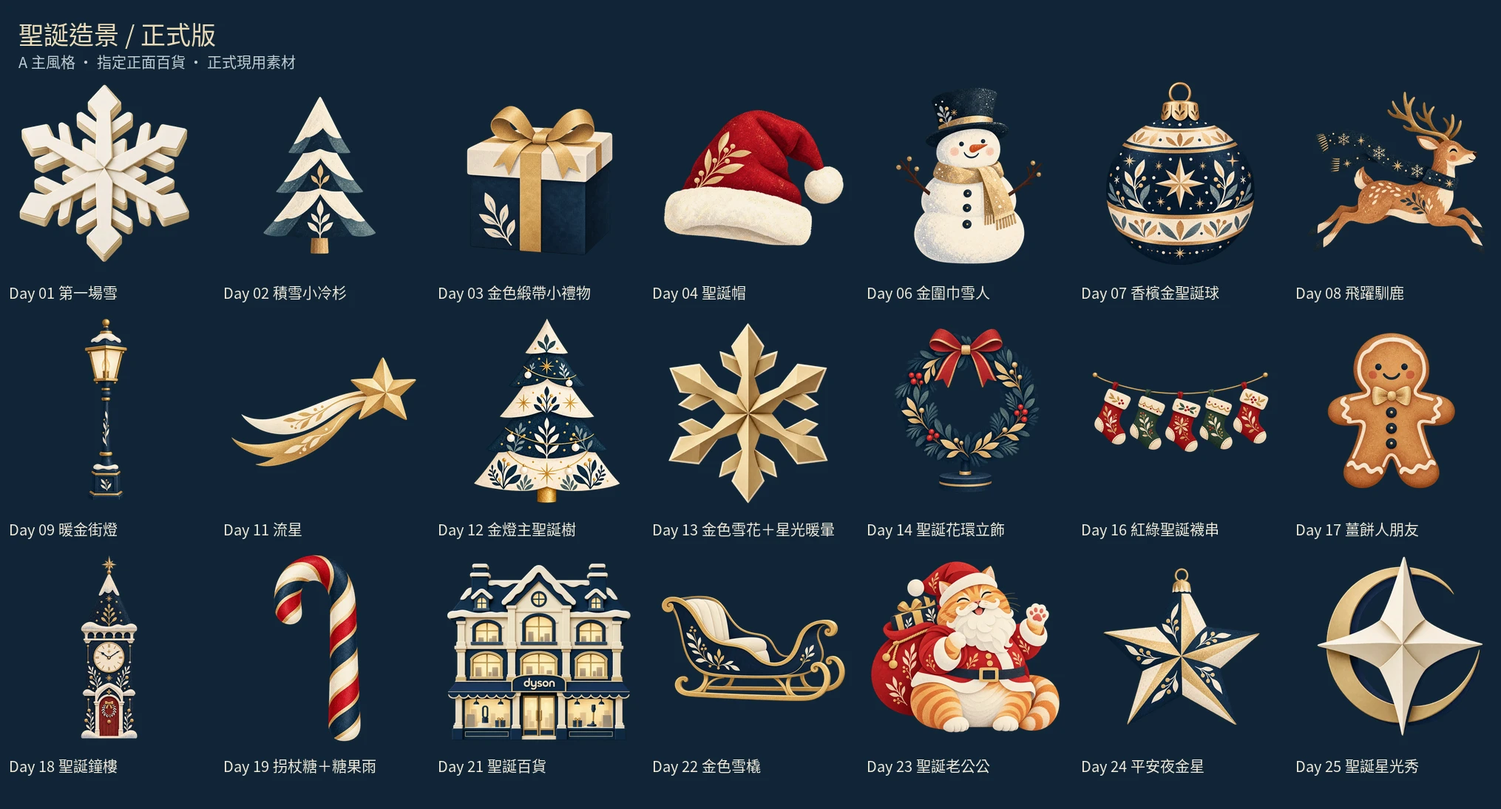
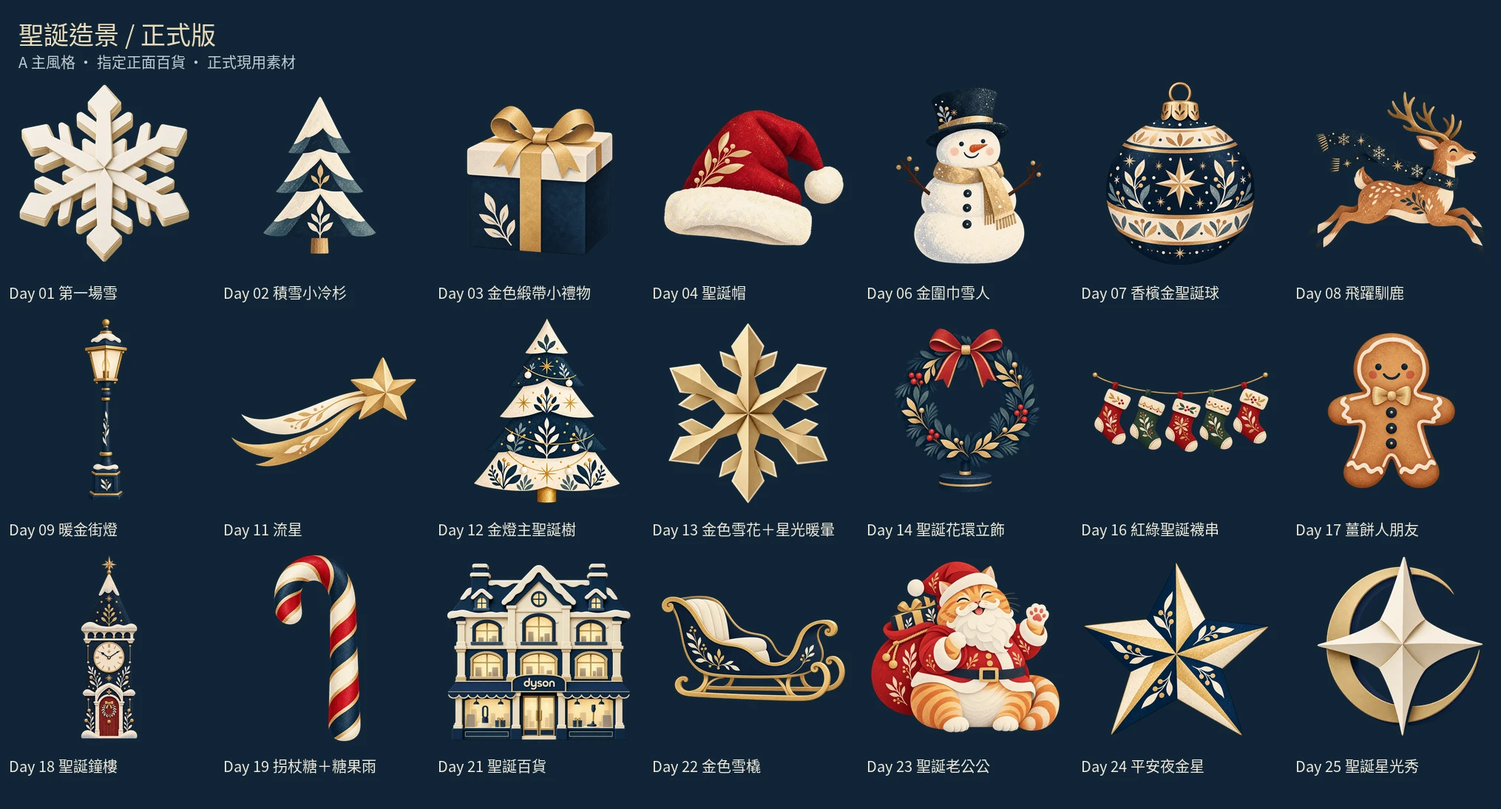
Add files via upload

Changed region(s): [[0.7138, 0.6837, 0.8379, 0.9013]]

diff --git a/2026-dyson-christmas/assets/js/app.js b/2026-dyson-christmas/assets/js/app.js
@@ -426,6 +426,12 @@ if(!safeRead(treeMusicUpdateKey,false)){
   if(settings[24]?.description=== '加入獨立懸掛金星，可吸附至已收藏的樹頂，另解鎖慢版《Jingle Bells》旋律。')delete settings[24].description;
   safeWrite(STORAGE_PREFIX+'config',settings);safeWrite(treeMusicUpdateKey,true);
 }
+const starCopyKey=STORAGE_PREFIX+'star-copy-'+BASE_CONFIG.starArtworkRevision;
+if(!safeRead(starCopyKey,false)){
+  const oldDescriptions=['加入獨立懸掛金星，可吸附至已收藏的樹頂，為雪境點上一顆平安夜金星。','加入獨立懸掛金星，可吸附至已收藏的樹頂，另解鎖慢版《Jingle Bells》旋律。'];
+  if(oldDescriptions.includes(settings[24]?.description))delete settings[24].description;
+  safeWrite(STORAGE_PREFIX+'config',settings);safeWrite(starCopyKey,true);
+}
 let previewDate=null,selectedDay=null,currentModalDay=null,editMode=false;
 let campaignStarted=false;
 function analyticsAllowed(){return !previewDate&&!$('studio-dialog')?.open;}
@@ -520,9 +526,10 @@ $('welcome-dialog').addEventListener('close',cleanupWelcome);
 
 function chime(){if(!sound)return;try{const AC=window.AudioContext||window.webkitAudioContext;if(!AC)return;const ac=chime.context??=new AC();if(ac.state==='suspended')ac.resume();[659.25,830.61,987.77].forEach((hz,k)=>{const o=ac.createOscillator(),g=ac.createGain();o.type='sine';o.frequency.value=hz;g.gain.setValueAtTime(0,ac.currentTime+k*.08);g.gain.linearRampToValueAtTime(.035,ac.currentTime+k*.08+.015);g.gain.exponentialRampToValueAtTime(.0001,ac.currentTime+k*.08+.8);o.connect(g);g.connect(ac.destination);o.start(ac.currentTime+k*.08);o.stop(ac.currentTime+k*.08+.85);});}catch{}}
 function describeState(d){return {future:'尚未開啟',current:'可領取',missed:'已錯過',owned:'已收藏'}[dayState(d)];}
+function starAboveTreeLayout(star,tree){return {...star,x:tree.x,y:tree.y-tree.h*tree.scale+star.h*star.scale*.48};}
 function getLayout(d){
   const def=item(d).layout,saved=state().layouts[d],layout=saved?{...def,...saved}:{...def,scale:1};
-  if(Number(d)===24&&!saved&&isPlaced(12)){const tree=getLayout(12);layout.x=tree.x;layout.y=tree.y-tree.h*tree.scale+8;}
+  if(Number(d)===24&&!saved&&isPlaced(12))Object.assign(layout,starAboveTreeLayout(layout,getLayout(12)));
   return SCENE_REPLACED_DAYS.includes(Number(d))?constrain(d,layout):layout;
 }
 function claimDay(d){
@@ -548,6 +555,7 @@ function togglePlacement(d,{fromCollection=false}={}){
   if(!previewDate&&cloud.email&&!cloud.ready&&!cloud.cachedView){status('正在背景找回進度，請稍後再調整。');return;}
   if(dayState(d)!=='owned')return;
   const placed=!isPlaced(d);state().placement[d]=placed;trackActivity('globe_item_change',{...giftAnalytics(d),action:placed?'add':'remove',placed_count:ownedDays().filter(isPlaced).length});
+  if(placed&&(Number(d)===24||(Number(d)===12&&isPlaced(24))))state().layouts[24]=starAboveTreeLayout(getLayout(24),getLayout(12));
   if(!placed&&selectedDay===d)selectItem(null);
   if(Number(d)===25&&!placed)stopShow(false);
   persist();renderUI({placementDay:d});if($('item-dialog').open){if(placed&&Number(currentModalDay)===Number(d))closeDialog('item-dialog');else renderItemDialog();}drawFrame(0,performance.now());
@@ -1161,7 +1169,7 @@ canvas.addEventListener('pointerdown',e=>{const pt=pointerPoint(e),d=hitTest(pt)
 canvas.addEventListener('pointermove',e=>{const pt=pointerPoint(e);if(drag&&drag.id===e.pointerId){if(Math.hypot(pt.x-drag.start.x,pt.y-drag.start.y)>10)drag.moved=true;if(!drag.viewOnly&&drag.moved){const l=getLayout(drag.day);l.x=pt.x-drag.offset.x;l.y=pt.y-drag.offset.y;state().layouts[drag.day]=constrain(drag.day,l);drawFrame(0,performance.now());}return;}
   const d=hitTest(pt);$('scene-tip').hidden=!d;if(d){$('scene-tip').textContent=item(d).name;$('scene-tip').style.left=`${Math.max(18,Math.min(82,((pt.x/SCENE_W-.5)*SCENE_VIEW.zoom+.5+SCENE_VIEW.shiftX)*100))}%`;$('scene-tip').style.top=`${((pt.y/SCENE_H-.5)*SCENE_VIEW.zoom+.5)*100}%`;}
 });
-canvas.addEventListener('pointerup',e=>{if(!drag||drag.id!==e.pointerId)return;const saved=drag;drag=null;if(canvas.hasPointerCapture?.(e.pointerId))canvas.releasePointerCapture(e.pointerId);if(saved.moved){if(saved.day===24&&!saved.viewOnly){const star=getLayout(24),near=[2,12].filter(d=>isPlaced(d)).map(d=>getLayout(d)).map(t=>({x:t.x,y:t.y-t.h*t.scale+2})).sort((a,b)=>Math.hypot(star.x-a.x,star.y-a.y)-Math.hypot(star.x-b.x,star.y-b.y))[0];if(near&&Math.hypot(star.x-near.x,star.y-near.y)<85){state().layouts[24]={...star,x:near.x,y:near.y};status('金星已放在聖誕樹頂。');}}persist();return;}if(saved.day){if(editMode)selectItem(saved.day);else openItem(saved.day);}});
+canvas.addEventListener('pointerup',e=>{if(!drag||drag.id!==e.pointerId)return;const saved=drag;drag=null;if(canvas.hasPointerCapture?.(e.pointerId))canvas.releasePointerCapture(e.pointerId);if(saved.moved){if(saved.day===24&&!saved.viewOnly){const star=getLayout(24),near=[2,12].filter(d=>isPlaced(d)).map(d=>getLayout(d)).map(t=>starAboveTreeLayout(star,t)).sort((a,b)=>Math.hypot(star.x-a.x,star.y-a.y)-Math.hypot(star.x-b.x,star.y-b.y))[0];if(near&&Math.hypot(star.x-near.x,star.y-near.y)<85){state().layouts[24]={...star,x:near.x,y:near.y};status('金星已放在聖誕樹頂。');}}persist();return;}if(saved.day){if(editMode)selectItem(saved.day);else openItem(saved.day);}});
 canvas.addEventListener('pointercancel',()=>{drag=null;persist();});canvas.addEventListener('pointerleave',()=>{$('scene-tip').hidden=true;});
 document.addEventListener('keydown',e=>{if(document.querySelector('dialog[open]'))return;const moves={ArrowLeft:[-4,0],ArrowRight:[4,0],ArrowUp:[0,-4],ArrowDown:[0,4]};if(editMode&&selectedDay&&moves[e.key]){e.preventDefault();moveSelected(...moves[e.key].map(v=>e.shiftKey?v*3:v));}});
 function assetLabel(d){if(customAssets.has(d))return '已使用自訂圖片';if(ASSETS.sprites?.[d])return item(d).product?'已內嵌產品透明圖':'獨立透明造景素材';return item(d).effect?'程式動態效果':'已內嵌節慶素材';}
@@ -1186,10 +1194,10 @@ async function openDatabase(){
       if(moved.length)await new Promise((resolve,reject)=>{const tx=assetDb.transaction('images','readwrite'),store=tx.objectStore('images');for(const d of Object.keys(SCHEDULE_MOVES))store.delete(Number(d));for(const r of moved)store.put(r,r.day);tx.oncomplete=resolve;tx.onerror=()=>reject(tx.error);tx.onabort=()=>reject(tx.error||new Error('素材日期更新未完成'));});
       records=records.filter(r=>!SCHEDULE_MOVES[r.day]).concat(moved);safeWrite(scheduleKey+'-assets',true);
     }
-    for(const r of records||[]){if(Number(r.day)===12&&r.treeArtworkRevision!==BASE_CONFIG.treeArtworkRevision)continue;if(FINAL_ARTWORK_DAYS.includes(Number(r.day))&&r.finalArtworkRevision!==BASE_CONFIG.finalArtworkRevision)continue;if(HOLIDAY_ACCENT_DAYS.includes(Number(r.day))&&r.holidayAccentRevision!==BASE_CONFIG.holidayAccentRevision)continue;if(FRONT_FACING_ARTWORK_DAYS.includes(Number(r.day))&&r.frontFacingArtworkRevision!==BASE_CONFIG.frontFacingArtworkRevision)continue;if(SEASONAL_ARTWORK_DAYS.includes(Number(r.day))&&r.seasonalArtworkRevision!==BASE_CONFIG.seasonalArtworkRevision)continue;if(RESTORED_ARTWORK_DAYS.includes(Number(r.day))&&r.restoredArtworkRevision!==BASE_CONFIG.restoredArtworkRevision)continue;if(CONTENT_REPLACED_DAYS.includes(Number(r.day))&&r.collectionContentRevision!==BASE_CONFIG.collectionContentRevision)continue;if(DEER_PAPER_DAYS.includes(Number(r.day))&&r.deerPaperRevision!==BASE_CONFIG.deerPaperRevision)continue;if(PAPER_SCENERY_DAYS.includes(Number(r.day))&&r.paperSceneryRevision!==BASE_CONFIG.paperSceneryRevision)continue;if(Number(r.day)===21&&r.departmentStoreRevision!==BASE_CONFIG.departmentStoreRevision)continue;if([107,109].includes(Number(r.day))&&r.softAnimalsRevision!==BASE_CONFIG.softAnimalsRevision)continue;if(Number(r.day)===106&&r.penguinRevision!==BASE_CONFIG.penguinRevision)continue;if(Number(r.day)===23&&r.santaTailRevision!==BASE_CONFIG.santaTailRevision)continue;if(PLAIN_COAT_DAYS.includes(Number(r.day))&&r.plainCoatRevision!==BASE_CONFIG.plainCoatRevision)continue;if(CHARACTER_REVISED_DAYS.includes(Number(r.day))&&r.characterRevision!==BASE_CONFIG.characterRevision)continue;if(CAT_COLLECTION_DAYS.includes(Number(r.day))&&r.catRevision!==BASE_CONFIG.catRevision)continue;if(PAPER_COLLECTION_DAYS.includes(Number(r.day))&&r.paperCollectionRevision!==BASE_CONFIG.paperCollectionRevision)continue;if(Number(r.day)===16&&r.stockingRevision!==BASE_CONFIG.stockingRevision)continue;if(SCENE_REPLACED_DAYS.includes(Number(r.day))&&r.sceneRevision!==BASE_CONFIG.sceneRevision)continue;if(!itemByDay(r.day)?.product&&r.productModel)continue;if(itemByDay(r.day)?.product&&ASSETS.productStyle&&(r.productStyle!==ASSETS.productStyle||r.productModel!==itemByDay(r.day).product.model))continue;if(ASSETS.visualStyle==='paper-relief-v1'&&!item(r.day)?.product&&r.visualStyle!=='paper-relief-v1')continue;if(r.removed)customAssets.delete(r.day);else try{customAssets.set(r.day,{src:r.src,image:await imageLoad(r.src)});}catch{}}
+    for(const r of records||[]){if(Number(r.day)===24&&r.starArtworkRevision!==BASE_CONFIG.starArtworkRevision)continue;if(Number(r.day)===12&&r.treeArtworkRevision!==BASE_CONFIG.treeArtworkRevision)continue;if(FINAL_ARTWORK_DAYS.includes(Number(r.day))&&r.finalArtworkRevision!==BASE_CONFIG.finalArtworkRevision)continue;if(HOLIDAY_ACCENT_DAYS.includes(Number(r.day))&&r.holidayAccentRevision!==BASE_CONFIG.holidayAccentRevision)continue;if(FRONT_FACING_ARTWORK_DAYS.includes(Number(r.day))&&r.frontFacingArtworkRevision!==BASE_CONFIG.frontFacingArtworkRevision)continue;if(SEASONAL_ARTWORK_DAYS.includes(Number(r.day))&&r.seasonalArtworkRevision!==BASE_CONFIG.seasonalArtworkRevision)continue;if(RESTORED_ARTWORK_DAYS.includes(Number(r.day))&&r.restoredArtworkRevision!==BASE_CONFIG.restoredArtworkRevision)continue;if(CONTENT_REPLACED_DAYS.includes(Number(r.day))&&r.collectionContentRevision!==BASE_CONFIG.collectionContentRevision)continue;if(DEER_PAPER_DAYS.includes(Number(r.day))&&r.deerPaperRevision!==BASE_CONFIG.deerPaperRevision)continue;if(PAPER_SCENERY_DAYS.includes(Number(r.day))&&r.paperSceneryRevision!==BASE_CONFIG.paperSceneryRevision)continue;if(Number(r.day)===21&&r.departmentStoreRevision!==BASE_CONFIG.departmentStoreRevision)continue;if([107,109].includes(Number(r.day))&&r.softAnimalsRevision!==BASE_CONFIG.softAnimalsRevision)continue;if(Number(r.day)===106&&r.penguinRevision!==BASE_CONFIG.penguinRevision)continue;if(Number(r.day)===23&&r.santaTailRevision!==BASE_CONFIG.santaTailRevision)continue;if(PLAIN_COAT_DAYS.includes(Number(r.day))&&r.plainCoatRevision!==BASE_CONFIG.plainCoatRevision)continue;if(CHARACTER_REVISED_DAYS.includes(Number(r.day))&&r.characterRevision!==BASE_CONFIG.characterRevision)continue;if(CAT_COLLECTION_DAYS.includes(Number(r.day))&&r.catRevision!==BASE_CONFIG.catRevision)continue;if(PAPER_COLLECTION_DAYS.includes(Number(r.day))&&r.paperCollectionRevision!==BASE_CONFIG.paperCollectionRevision)continue;if(Number(r.day)===16&&r.stockingRevision!==BASE_CONFIG.stockingRevision)continue;if(SCENE_REPLACED_DAYS.includes(Number(r.day))&&r.sceneRevision!==BASE_CONFIG.sceneRevision)continue;if(!itemByDay(r.day)?.product&&r.productModel)continue;if(itemByDay(r.day)?.product&&ASSETS.productStyle&&(r.productStyle!==ASSETS.productStyle||r.productModel!==itemByDay(r.day).product.model))continue;if(ASSETS.visualStyle==='paper-relief-v1'&&!item(r.day)?.product&&r.visualStyle!=='paper-relief-v1')continue;if(r.removed)customAssets.delete(r.day);else try{customAssets.set(r.day,{src:r.src,image:await imageLoad(r.src)});}catch{}}
   }catch{assetDb=null;assetStorage='memory';}
 }
-function dbWrite(day,src){return new Promise((resolve,reject)=>{if(!assetDb){resolve();return;}const tx=assetDb.transaction('images','readwrite');tx.objectStore('images').put(src?{day,src,treeArtworkRevision:BASE_CONFIG.treeArtworkRevision,finalArtworkRevision:BASE_CONFIG.finalArtworkRevision,holidayAccentRevision:BASE_CONFIG.holidayAccentRevision,frontFacingArtworkRevision:BASE_CONFIG.frontFacingArtworkRevision,seasonalArtworkRevision:BASE_CONFIG.seasonalArtworkRevision,restoredArtworkRevision:BASE_CONFIG.restoredArtworkRevision,collectionContentRevision:BASE_CONFIG.collectionContentRevision,deerPaperRevision:BASE_CONFIG.deerPaperRevision,paperSceneryRevision:BASE_CONFIG.paperSceneryRevision,departmentStoreRevision:BASE_CONFIG.departmentStoreRevision,softAnimalsRevision:BASE_CONFIG.softAnimalsRevision,penguinRevision:BASE_CONFIG.penguinRevision,santaTailRevision:BASE_CONFIG.santaTailRevision,plainCoatRevision:BASE_CONFIG.plainCoatRevision,characterRevision:BASE_CONFIG.characterRevision,catRevision:BASE_CONFIG.catRevision,paperCollectionRevision:BASE_CONFIG.paperCollectionRevision,sceneRevision:BASE_CONFIG.sceneRevision,stockingRevision:BASE_CONFIG.stockingRevision,visualStyle:ASSETS.visualStyle,productStyle:item(day).product?ASSETS.productStyle:null,productModel:configuredItem(day).product?.model||null}:{day,removed:true,visualStyle:ASSETS.visualStyle},day);tx.oncomplete=()=>resolve();tx.onerror=()=>reject(tx.error);});}
+function dbWrite(day,src){return new Promise((resolve,reject)=>{if(!assetDb){resolve();return;}const tx=assetDb.transaction('images','readwrite');tx.objectStore('images').put(src?{day,src,starArtworkRevision:BASE_CONFIG.starArtworkRevision,treeArtworkRevision:BASE_CONFIG.treeArtworkRevision,finalArtworkRevision:BASE_CONFIG.finalArtworkRevision,holidayAccentRevision:BASE_CONFIG.holidayAccentRevision,frontFacingArtworkRevision:BASE_CONFIG.frontFacingArtworkRevision,seasonalArtworkRevision:BASE_CONFIG.seasonalArtworkRevision,restoredArtworkRevision:BASE_CONFIG.restoredArtworkRevision,collectionContentRevision:BASE_CONFIG.collectionContentRevision,deerPaperRevision:BASE_CONFIG.deerPaperRevision,paperSceneryRevision:BASE_CONFIG.paperSceneryRevision,departmentStoreRevision:BASE_CONFIG.departmentStoreRevision,softAnimalsRevision:BASE_CONFIG.softAnimalsRevision,penguinRevision:BASE_CONFIG.penguinRevision,santaTailRevision:BASE_CONFIG.santaTailRevision,plainCoatRevision:BASE_CONFIG.plainCoatRevision,characterRevision:BASE_CONFIG.characterRevision,catRevision:BASE_CONFIG.catRevision,paperCollectionRevision:BASE_CONFIG.paperCollectionRevision,sceneRevision:BASE_CONFIG.sceneRevision,stockingRevision:BASE_CONFIG.stockingRevision,visualStyle:ASSETS.visualStyle,productStyle:item(day).product?ASSETS.productStyle:null,productModel:configuredItem(day).product?.model||null}:{day,removed:true,visualStyle:ASSETS.visualStyle},day);tx.oncomplete=()=>resolve();tx.onerror=()=>reject(tx.error);});}
 async function removeCustomAsset(d){customAssets.delete(d);sprites.delete(d);await dbWrite(d,null).catch(()=>{});renderUI();renderStudio();}
 $('asset-input').addEventListener('change',async e=>{const file=e.target.files?.[0],d=assetUploadDay;if(!file||!d)return;if(file.size>12*1024*1024){$('config-status').textContent='單張圖片請控制在 12 MB 內。';return;}
   try{const src=await new Promise((resolve,reject)=>{const r=new FileReader();r.onload=()=>resolve(r.result);r.onerror=()=>reject(r.error);r.readAsDataURL(file);});const image=await imageLoad(src);customAssets.set(d,{src,image});sprites.delete(d);try{await dbWrite(d,src);}catch{assetStorage='memory';}$('config-status').textContent=`12/${d} 圖片已替換。可下載新版 config.js 保留素材。`;renderUI();renderStudio();}catch(err){$('config-status').textContent=err.message;}

diff --git a/2026-dyson-christmas/index.html b/2026-dyson-christmas/index.html
@@ -1,12 +1,11 @@
 <!doctype html>
 <html lang="zh-Hant">
-<head><meta charset="utf-8"><meta name="viewport" content="width=device-width,initial-scale=1"><meta name="theme-color" content="#10141c"><title>Dyson 璀璨雪境｜25 日聖誕收藏</title><link rel="stylesheet" href="./assets/css/style.css?v=20261029-passport-product-rewards"></head>
+<head><meta charset="utf-8"><meta name="viewport" content="width=device-width,initial-scale=1"><meta name="theme-color" content="#10141c"><title>Dyson 璀璨雪境｜25 日聖誕收藏</title><link rel="stylesheet" href="./assets/css/style.css?v=20261029-intro-tree-top-star"></head>
 <body>
 <dialog id="welcome-dialog" class="welcome-dialog" aria-labelledby="welcome-title" aria-describedby="welcome-description">
  <div class="welcome-topline"><span class="welcome-label">玩法與雪境靈感</span><button id="welcome-skip" type="button" aria-label="關閉活動介紹">關閉 ×</button></div>
- <h2 id="welcome-title">活動介紹</h2><p id="welcome-description">收藏驚喜、傳送祝福，解鎖<strong>限量優惠券</strong>。</p>
- <div class="welcome-content"><section id="welcome-progress" class="welcome-progress"><h3 id="welcome-progress-title">留住你的聖誕進度</h3><p>留下 Email，下次回來接續收藏。</p><div id="progress-current" hidden><p>目前使用 <strong id="progress-email-label"></strong></p><button id="progress-switch" type="button">切換 Email</button></div><form id="progress-form" novalidate><label for="progress-email">你的 Email<input id="progress-email" type="email" maxlength="254" autocomplete="email" placeholder="name@example.com"></label><label class="progress-consent"><input id="progress-marketing" type="checkbox"><span>我願意接收 Dyson 優惠與新品資訊（選填）</span></label><p class="card-hint">未填寫也能先體驗。</p><button id="progress-submit" hidden class="gold-button" type="submit">保存</button></form><p id="progress-message" role="status" aria-live="polite"></p><button id="progress-retry" type="button" hidden>重試同步</button></section><div class="welcome-media"><video id="welcome-video" muted playsinline preload="none" aria-label="5 秒玩法介紹與雪境示意"></video><div class="welcome-media-toolbar"><p id="welcome-status" class="welcome-status" role="status" aria-live="polite"></p><button id="welcome-play" type="button" hidden>播放介紹</button></div></div></div>
- <nav class="welcome-guide" aria-label="三步玩法"><ol class="welcome-steps"><li>收藏驚喜</li><li>布置雪境</li><li>傳祝福領優惠</li></ol></nav>
+ <h2 id="welcome-title">活動介紹</h2><p id="welcome-description">布置屬於你的聖誕雪境、收藏驚喜、傳送祝福，解鎖<strong>限量優惠券</strong>。</p>
+ <div class="welcome-content"><section id="welcome-progress" class="welcome-progress"><h3 id="welcome-progress-title">留住你的聖誕進度</h3><p>留下 Email，下次回來接續收藏。</p><div id="progress-current" hidden><p>目前使用 <strong id="progress-email-label"></strong></p><button id="progress-switch" type="button">切換 Email</button></div><form id="progress-form" novalidate><label for="progress-email">你的 Email<input id="progress-email" type="email" maxlength="254" autocomplete="email" placeholder="name@example.com"></label><label class="progress-consent"><input id="progress-marketing" type="checkbox"><span>我願意接收 Dyson 優惠與新品資訊（選填）</span></label><p class="card-hint">未填寫也能先體驗。</p><button id="progress-submit" hidden class="gold-button" type="submit">保存</button></form><p id="progress-message" role="status" aria-live="polite"></p><button id="progress-retry" type="button" hidden>重試同步</button></section><div class="welcome-media"><video id="welcome-video" muted playsinline preload="none" aria-label="5 秒玩法介紹與雪境示意"></video><div class="welcome-media-toolbar"><p id="welcome-status" class="welcome-status sr-only" role="status" aria-live="polite"></p><button id="welcome-play" type="button" hidden>播放介紹</button></div></div></div>
  <details class="welcome-rules"><summary id="welcome-rules-title">活動規則</summary><div class="welcome-rules-content"><p>活動期間為 2026/12/01–12/25，以台灣時間（UTC+8）每日 00:00 換日。可領取當天及之前的禮物，未來日期仍鎖定；活動結束後，已收藏項目仍可回看及重新擺放。</p><p>四款產品各附一份商品專屬優惠券，收藏即可保留對應優惠。製作卡片並下載或分享一次、填寫 Email 保存進度後，即可領取已達成條件的優惠券；整個活動只需完成一次卡片任務。活動期間累積參與 10 個不同台灣日期，即可至 Dyson 櫃位兌換護照；不需連續，同日補領多份禮物只算參與一天。</p><p>Email 用於保存與找回活動進度，請確認拼寫正確；本活動不驗證信箱持有人。未填 Email 可先體驗，填寫後按「開始收藏」即可保存。已載入進度後，變更行銷意願會立即保存；勾選行銷意願者，可於活動結束後接收 Dyson 優惠與新品資訊，不影響活動參加。</p><p>優惠內容與使用條件以券面說明為準。</p></div></details>
  <details id="welcome-notices" class="welcome-rules welcome-notices"><summary id="welcome-notices-title">注意事項</summary><div class="welcome-rules-content"><ol id="activity-notices-list"><li><p>本活動由恆隆行貿易股份有限公司（以下簡稱「主辦單位」）舉辦。參加者一經參與本活動，即視為已詳閱、瞭解並同意遵守本活動辦法、注意事項及相關規範。</p></li><li><p>如因參加者使用之裝置、LINE App 版本、網路連線或其他非可歸責於主辦單位之因素，導致活動頁面、動畫效果、會員綁定或優惠資訊顯示異常，主辦單位恕不另行補發或補償。</p></li><li><p>如因天災、系統異常、政府法令變更或其他不可抗力因素，致本活動無法正常進行，主辦單位得於法令允許範圍內調整、暫停或終止活動，並依實際情況公告相關處理方式。</p></li><li><p>主辦單位保留於法令允許範圍內調整活動內容及相關辦法之權利，相關異動將於活動頁面公告。</p></li><li><p>本活動如有未盡事宜，悉依相關法令、主辦單位活動辦法及最新公告辦理。</p></li></ol></div></details>
  <div class="welcome-footer"><button id="welcome-start" class="gold-button" type="button">開始收藏</button></div>
@@ -73,9 +72,9 @@
 
 
 
-<script src="./assets/js/config.js?v=20261029-passport-product-rewards"></script>
+<script src="./assets/js/config.js?v=20261029-intro-tree-top-star"></script>
 <script src="./assets/js/analytics.js?v=20261028-white-blue-gold"></script>
 <script src="./assets/js/media-codecs.js"></script>
 <script src="./assets/js/media-mp4.js?v=20261028-white-blue-gold"></script>
-<script src="./assets/js/app.js?v=20261029-passport-product-rewards"></script>
+<script src="./assets/js/app.js?v=20261029-intro-tree-top-star"></script>
 </body></html>

diff --git a/2026-dyson-christmas/assets/js/config.js b/2026-dyson-christmas/assets/js/config.js
@@ -8,7 +8,7 @@ window.DYSON_GAME_CONFIG = {
   "holidayAccentRevision": "20261028-white-blue-gold",
   "frontFacingArtworkRevision": "20261028-front-retail",
   "paperSceneryRevision": "20261028-minimal-relief",
-  "version": 64,
+  "version": 65,
   "cardShareUrl": "https://hlh.tw/2026-dyson-christmas",
   "cardShareText": "我把一點雪、一點星光，還有想你的心意，都裝進這顆水晶球了。",
   "visualStyle": "paper-relief-v1",
@@ -388,12 +388,12 @@ window.DYSON_GAME_CONFIG = {
       "day": 24,
       "type": "聖誕造景",
       "name": "平安夜金星",
-      "description": "加入獨立懸掛金星，可吸附至已收藏的樹頂，為雪境點上一顆平安夜金星。",
+      "description": "加入沒有吊飾環的平安夜金星，放入時自動對齊金燈主聖誕樹正上方，為雪境點上一顆祝福金星。",
       "benefit": null,
-      "assetNeed": "A 款北歐紋理插畫透明 WebP，沿用固定檔名",
+      "assetNeed": "A款五角金星透明WebP，無吊飾環與金屬吊帽",
       "layout": {
         "x": 625,
-        "y": 408,
+        "y": 492,
         "h": 77
       },
       "hint": "一個冬日小驚喜，將為你的聖誕世界添上新的細節。"
@@ -655,7 +655,8 @@ window.DYSON_GAME_CONFIG = {
     "21": "simple-front-snowy-department-store"
   },
   "treeArtworkRevision": "20261029-tree-gingerbread-music",
-  "rewardPresentationRevision": "20261029-passport-product-rewards"
+  "rewardPresentationRevision": "20261029-passport-product-rewards",
+  "starArtworkRevision": "20261029-intro-tree-top-star"
 };
 
 window.DYSON_ASSETS = {
@@ -692,7 +693,7 @@ window.DYSON_ASSETS = {
     "21": "./assets/images/scene/day-21-department-store.webp?rev=20261029-simple-store-notices",
     "22": "./assets/images/scene/day-22-golden-sleigh.webp?rev=20261029-style-a-final",
     "23": "./assets/images/scene/day-23-cat-santa.webp?rev=20261029-style-a-final",
-    "24": "./assets/images/scene/day-24-christmas-star.webp?rev=20261029-style-a-final"
+    "24": "./assets/images/scene/day-24-christmas-star.webp?rev=20261029-intro-tree-top-star"
   },
   "music": [
     {

diff --git a/2026-dyson-christmas/assets/css/style.css b/2026-dyson-christmas/assets/css/style.css
@@ -517,3 +517,6 @@ button,input,textarea,select{line-height:1.5}
 
 /* Counter gift uses the supplied artwork without recoloring. */
 .passport-visual{display:flex;align-items:center;justify-content:center;margin:14px 0;padding:14px;border-radius:10px;background:#f3ecdc;overflow:hidden}.passport-visual img{display:block;width:100%;max-width:240px;height:auto;object-fit:contain}.compact-reward .passport-visual{max-width:220px;margin:12px auto}.passport-eligible{color:var(--gold);font-weight:700;line-height:1.7}.passport-reward h3,.passport-reward p{overflow-wrap:anywhere}
+
+/* Keep replay control; media status is available only to screen readers. */
+.welcome-media-toolbar{justify-content:flex-end}.welcome-media-toolbar .welcome-status{position:absolute;width:1px;height:1px;min-height:0;padding:0;margin:-1px;overflow:hidden;clip:rect(0,0,0,0);clip-path:inset(50%);white-space:nowrap;border:0;flex:none}

diff --git a/2026-dyson-christmas/UPDATE.md b/2026-dyson-christmas/UPDATE.md
@@ -1,25 +1,14 @@
-# v64 護照禮與商品專屬優惠券
+# v65 彈窗與樹頂金星
 
-本次以v63為基準，延續主樹無頂星、加長樹幹、薑餅人放大20%、Day24無聖誕旋律，以及指定百貨與五點注意事項。
+基準v64。完整包含先前Day24無聖誕旋律、薑餅人放大20%、主樹去頂星及加長樹幹、指定百貨、五點注意事項、護照禮與商品專屬券。
 
-## 滿10天護照禮
+- 活動介紹文案改為「布置屬於你的聖誕雪境、收藏驚喜、傳送祝福，解鎖限量優惠券。」，限量優惠券維持強調。
+- 移除影片重播按鈕左側的可見文字與下方三步玩法列，保留影片及再看一次按鈕；播放狀態以無障礙文字提供。
+- Day24金星用內建image_gen編輯移除吊飾環及金屬吊帽，保留A款五角星、配色與植物紋樣，沿用原固定WebP檔名。
+- 每次將金星放入水晶球，依主樹目前位置及縮放對齊樹頂，保留金星自身縮放。舊拖曳位置在重新放入時會重新對齊；放好後仍可自由拖曳。
+- 若先放金星、後放主樹，主樹放入時也會將已展示金星對齊。未展示主樹時使用主樹預定位置，不自動收藏或放入主樹。
+- 更新Day24圖片快取識別；僅略過過期金星自訂圖片，不清除進度或其他物件圖。更新瀏覽預覽、詳情與球內共用來源。
 
-- 原visits-10通用折價券改為Dyson護照兌換禮，沿用原本不同台灣日期累積簽到、同日只算一次、不需連續的規則。
-- 正式累積10天並保存Email進度，即顯示到Dyson櫃位出示畫面兌換護照的資格。此禮不再要求卡片任務；四張產品券的卡片任務保留。
-- 使用提供的透明PNG，僅無損轉為固定檔名assets/images/rewards/dyson-passport.webp，未重繪或改色。
-- 移除原全品項券標示及All999999序號；首頁禮遇、我的禮遇、聖誕足跡與活動介紹文字同步更新。
-- 本版顯示到櫃兌換資格，未新增店員核銷或已兌換紀錄；兌換數量、期限、櫃點名單等未提供條件不自行增訂。
+差異包適用v64：合併覆蓋2026-dyson-christmas資料夾同名檔案。較舊版本使用完整包。尚未代為上傳正式網站。
 
-## 商品券
-
-- HD19 隨行吹風機折抵 $1,000。
-- SV50 鉛筆吸塵器折抵 $1,000。
-- HJ10 噴射氣流空氣清淨機折抵 $1,000。
-- BP10 空氣清淨機專屬折價券，原金額與序號未公布，未自行設定。
-- 商品券序號與卡片任務沿用。這是活動網站顯示調整；購物平台必須將優惠碼適用範圍同步限定指定機型，網站無法變更購物平台券規則。
-- 已知舊品類預設文字及舊通用券設定會更新，其他自訂商品券序號保留。
-
-## 套用
-
-差異包適用v63，將2026-dyson-christmas資料夾內容合併覆蓋同名檔案；較舊版本使用完整包。圖片檔名無版本尾碼，JS、CSS與圖片查詢參數已更新。
-本次未更動Apps Script、管理權限判斷或Google Sheet；管理者問題尚需目前實際部署的Apps Script原始碼確認，詳見ADMIN-CHECK.md。未代為上傳正式網站。
+管理者問題另經線上後端實測：指定新增管理者回傳isAdmin:false、canPreview:false、hasExclusiveCollection:false，服務版本符合目前前端要求。前端正確隱藏管理入口；尚未確認後端讀取的實際Sheet或列。需目前部署Code.gs定位，未修改後端或放寬權限，詳見ADMIN-CHECK.md。

diff --git a/2026-dyson-christmas/ADMIN-CHECK.md b/2026-dyson-christmas/ADMIN-CHECK.md
@@ -1,15 +1,13 @@
-# 新增管理者後未顯示日期模擬
+# 新管理者日期模擬排查：已取得後端實測
 
-從提供截圖可見「是否管理者」已勾選；前端程式不以「同意行銷」作為管理條件，無須為模擬日期而勾選行銷。
+2026/10/29以使用者指定的新管理者Email，對活動設定中的正式進度服務執行connect測試。只測試該帳號，未變更行銷同意、未領取禮物、未寫入模擬日期或修改Sheet權限；連線會更新服務既有的最近連線紀錄。
 
-目前前端僅在進度服務連線成功、後端回傳isAdmin為布林true，以及canPreview為布林true時，顯示日期模擬與管理入口。僅填Email或勾選前端欄位無法繞過後端權限。
+後端實際回傳：ok=true、serviceVersion=7、rulesVersion=3、permissionsVersion=2、year=2026；isAdmin=false、canPreview=false、hasExclusiveCollection=false。
 
-先重新整理活動頁，使用新增管理者的完整Email重新保存／載入進度。正在開啟的頁面不會因Sheet勾選自動推送權限；目前返回頁面的自動重連也受活動日期限制，因此十月新增勾選後，應主動重新載入。
+可確認：不是前端在收到管理者true之後仍隱藏入口，也不是目前前端不接受服務版本。服務實際將此Email視為沒有管理者及專屬收藏權限。
 
-若仍未出現日期模擬，需檢查目前部署的Apps Script：
-- 連到的試算表是否正是所修改的Participants_2026。
-- 是否按正確Email列讀取「是否管理者」核取方塊。
-- 回傳的isAdmin、canPreview是否均為布林true，而非字串TRUE。
-- 若程式碼更新過，現用/exec部署是否仍執行舊版本。
+尚無法確認：部署服務連到哪份試算表、Email是否匹配正確列、欄位如何解析、現用部署是否仍含較早的讀取邏輯。網站的/exec網址不提供Apps Script原始碼；現有獨立DysonProgress.gs是舊版，不能用來覆蓋現用服務。
 
-本次能取得的獨立DysonProgress.gs為較舊版本，與現用前端要求的服務協定不同，不能用它認定線上問題或覆蓋現用後端。請提供目前Apps Script原始碼或檔案，才能定位並針對實際版本修正；不要用舊檔取代，也不需清空Sheet。
+下一步：從目前修改的Sheet開啟擴充功能→Apps Script，提供目前Code.gs完整內容。需比對其試算表選擇、Email查找與是否管理者／是否有專屬收藏欄位解析，再修正及更新原部署。未確認前不改Sheet表頭、不清空資料。
+
+正常設計應每次連線讀取Sheet名單：後續新增Email或勾選管理者，只需重新載入進度，不應每次重部署。這次v65未包含GS修正，也未放寬前端權限判斷。

diff --git a/2026-dyson-christmas/REVIEW.md b/2026-dyson-christmas/REVIEW.md
@@ -1,10 +1,13 @@
-# v64 驗證
+# v65 驗證
 
-- 9個參與日期不解鎖，10個日期符合護照條件；正式需要已載入Email進度，管理模擬資料獨立顯示。
-- 護照禮沒有通用折價序號、複製按鈕或卡片任務門檻；四張商品券仍需卡片任務。
-- 新商品標題、預告與條件同步更新；舊品類預設設定更新，既有商品券序號保留，舊All999999不能由已保存編輯器設定重新帶回。
-- 使用正式繪製函式驗證35收藏縮圖均非空白，其他造景與素材保留v63。49媒體與39圖片引用SHA-256檢查通過。
-- 管理者與日期模擬權限判斷與v63相同，未放寬權限。未連線讀取或變更線上Sheet與Apps Script，問題尚未確認根因。
-- 注意事項五段文字與v63逐字相同。
-- 桌面瀏覽器以隔離測試進度預覽：三張指定商品$1,000標題、BP10待公布狀態、10天足跡、護照圖及到櫃兌換提示均顯示；護照圖片載入成功，對話框無橫向溢出。
-- 差異包還原結果與完整包逐檔相同。沒有宣稱完成購物平台實際券範圍、櫃位核銷或所有裝置測試。
+- 活動介紹文案與指定文字相同，限量優惠券維持strong；已移除三步玩法列。
+- 影片、再看一次按鈕保留；旁側播放狀態只供螢幕閱讀器，不占可見版面。
+- Day24金星實際透明圖片無吊飾環及吊帽，內建image_gen編輯，PROMPTS.json記錄提示。
+- 使用正式getLayout及togglePlacement函式驗證：新舊金星位置重新加入會對齊、主樹位置縮放正確使用、金星縮放保留、星先樹後仍對齊、不自動領取或展示主樹、手動拖曳仍可。
+- 使用實際正式繪製函式產生35個非空白縮圖；49媒體與39圖片引用及SHA-256檢查通過。
+- 新金星快取識別可略過過期自訂圖，新自訂圖、其他圖與收藏進度保留。
+- v64護照禮9天未達、10天資格、商品券卡片任務、舊序號不帶回等測試沿用並通過。活動注意事項五段文字逐字保留。
+- 隔離桌面瀏覽器預覽：新文案、影片結束後無左側文字及無三步玩法列，無水平溢出；實際按金星放入按鈕後，金星位於無頂星主樹正上方。
+- 線上後端針對指定Email回傳三項權限均false；已確認回傳結果，尚未取得現用Code.gs，所以不宣稱已修好管理員問題。
+
+測試資料與正式進度分開，內部預覽停用GA。未宣稱測試全部裝置或所有卡片匯出流程。正式網站與Apps Script尚未代為部署。
